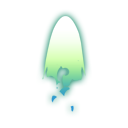
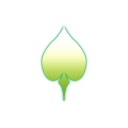
Levelup에 따른 총알 렌더링 변경.
Levelup에 따른 총알 렌더링 변경.

Changed region(s): [[0.3125, 0.0938, 0.7188, 0.8125], [0.5312, 0.8125, 0.5938, 0.875], [0.4688, 0.1875, 0.5312, 0.25]]

diff --git a/PlayerBullet.py b/PlayerBullet.py
@@ -2,11 +2,29 @@ from pico2d import *
 
 
 class CPlayerBullet:
-    image = [None]
+    image = [None, None, None, None, None, None, None]
 
     def __init__(self, PosX, PosY, Damage, Radius, FileName):
         if CPlayerBullet.image[0] is None:
             CPlayerBullet.image[0] = load_image("Resource/Bullet/bullet_Lv1.png")
+
+        if CPlayerBullet.image[1] is None:
+            CPlayerBullet.image[1] = load_image("Resource/Bullet/bullet_Lv2.png")
+
+        if CPlayerBullet.image[2] is None:
+            CPlayerBullet.image[2] = load_image("Resource/Bullet/bullet_Lv3.png")
+
+        if CPlayerBullet.image[3] is None:
+            CPlayerBullet.image[3] = load_image("Resource/Bullet/bullet_Lv4.png")
+
+        if CPlayerBullet.image[4] is None:
+            CPlayerBullet.image[4] = load_image("Resource/Bullet/bullet_Lv5.png")
+
+        if CPlayerBullet.image[5] is None:
+            CPlayerBullet.image[5] = load_image("Resource/Bullet/bullet_Lv6.png")
+
+        if CPlayerBullet.image[6] is None:
+            CPlayerBullet.image[6] = load_image("Resource/Bullet/bullet_Lv7.png")
 
         self.IsDead = False
         self.x, self.y = PosX, PosY
@@ -14,6 +32,7 @@ class CPlayerBullet:
         self.damage = Damage
         self.radius = Radius
         self.filename = FileName
+        print(FileName)
 
     def Handle_Events(self):
         pass
@@ -38,9 +57,21 @@ class CPlayerBullet:
 
         if self.filename == "bullet_Lv1.png":
             index = 0
+        if self.filename == "bullet_Lv2.png":
+            index = 1
+        if self.filename == "bullet_Lv3.png":
+            index = 2
+        if self.filename == "bullet_Lv4.png":
+            index = 3
+        if self.filename == "bullet_Lv5.png":
+            index = 4
+        if self.filename == "bullet_Lv6.png":
+            index = 5
+        if self.filename == "bullet_Lv7.png":
+            index = 6
 
         if not self.IsDead:
-            CPlayerBullet.image[0].draw(self.x, self.y)
+            CPlayerBullet.image[index].draw(self.x, self.y)
         pass
 
     def DeadObject(self):

diff --git a/Player.py b/Player.py
@@ -60,6 +60,9 @@ class CPlayer:
             self.x = self.x - self.speed
             pass
 
+        # Level에 따른 Bullet 변경.
+        self.Change_Bullet()
+
         # Create Bullet
         self.time_CreateBullet = self.time_CreateBullet + 0.1
         if self.time_CreateBullet >= self.time_UpdateCreateBullet:
@@ -93,4 +96,37 @@ class CPlayer:
             # PosX, PosY, CX, CY, Speed, IsSingleEffect, IsAnimationEndDead, MaxFrame, LifeTime, ScaleX, ScaleY, FileName
             GameObj = Effect.CEffect(self.x, self.y, 256, 256, 1, False, True, 30, 100, 256, 256, "LvUp.png")
             ObjectMgr.Add_GameObject(GameObj, "Effect")
+        pass
+
+    def Change_Bullet(self):
+        if self.level >= 5:
+            self.bullet_filename = "bullet_Lv2.png"
+            self.bullet_radius = 32
+            pass
+
+        if self.level >= 10:
+            self.bullet_filename = "bullet_Lv3.png"
+            self.bullet_radius = 64
+            pass
+
+        if self.level >= 15:
+            self.bullet_filename = "bullet_Lv4.png"
+            self.bullet_radius = 64
+            pass
+
+        if self.level >= 20:
+            self.bullet_filename = "bullet_Lv5.png"
+            self.bullet_radius = 64
+            pass
+
+        if self.level >= 25:
+            self.bullet_filename = "bullet_Lv6.png"
+            self.bullet_radius = 50
+            pass
+
+        if self.level >= 30:
+            self.bullet_filename = "bullet_Lv7.png"
+            self.bullet_radius = 64
+            pass
+
         pass

diff --git a/Scene_Stage1.py b/Scene_Stage1.py
@@ -56,7 +56,7 @@ def Update():
         for n in range(random.randint(0, 2 + 1), random.randint(5, 8 + 1)):
             PosX = Pos_CreateX + Pos_OffsetX * n
             # x, y, hp, speed, radius, exp, filename
-            GameObject = Monster.CMonster(PosX, Pos_CreateY, 50, 3, 25, 50, "Enemy01.png")
+            GameObject = Monster.CMonster(PosX, Pos_CreateY, 50, 3, 25, 100, "Enemy01.png")
 
             ObjectMgr.Add_GameObject(GameObject, "Monster")
             pass
